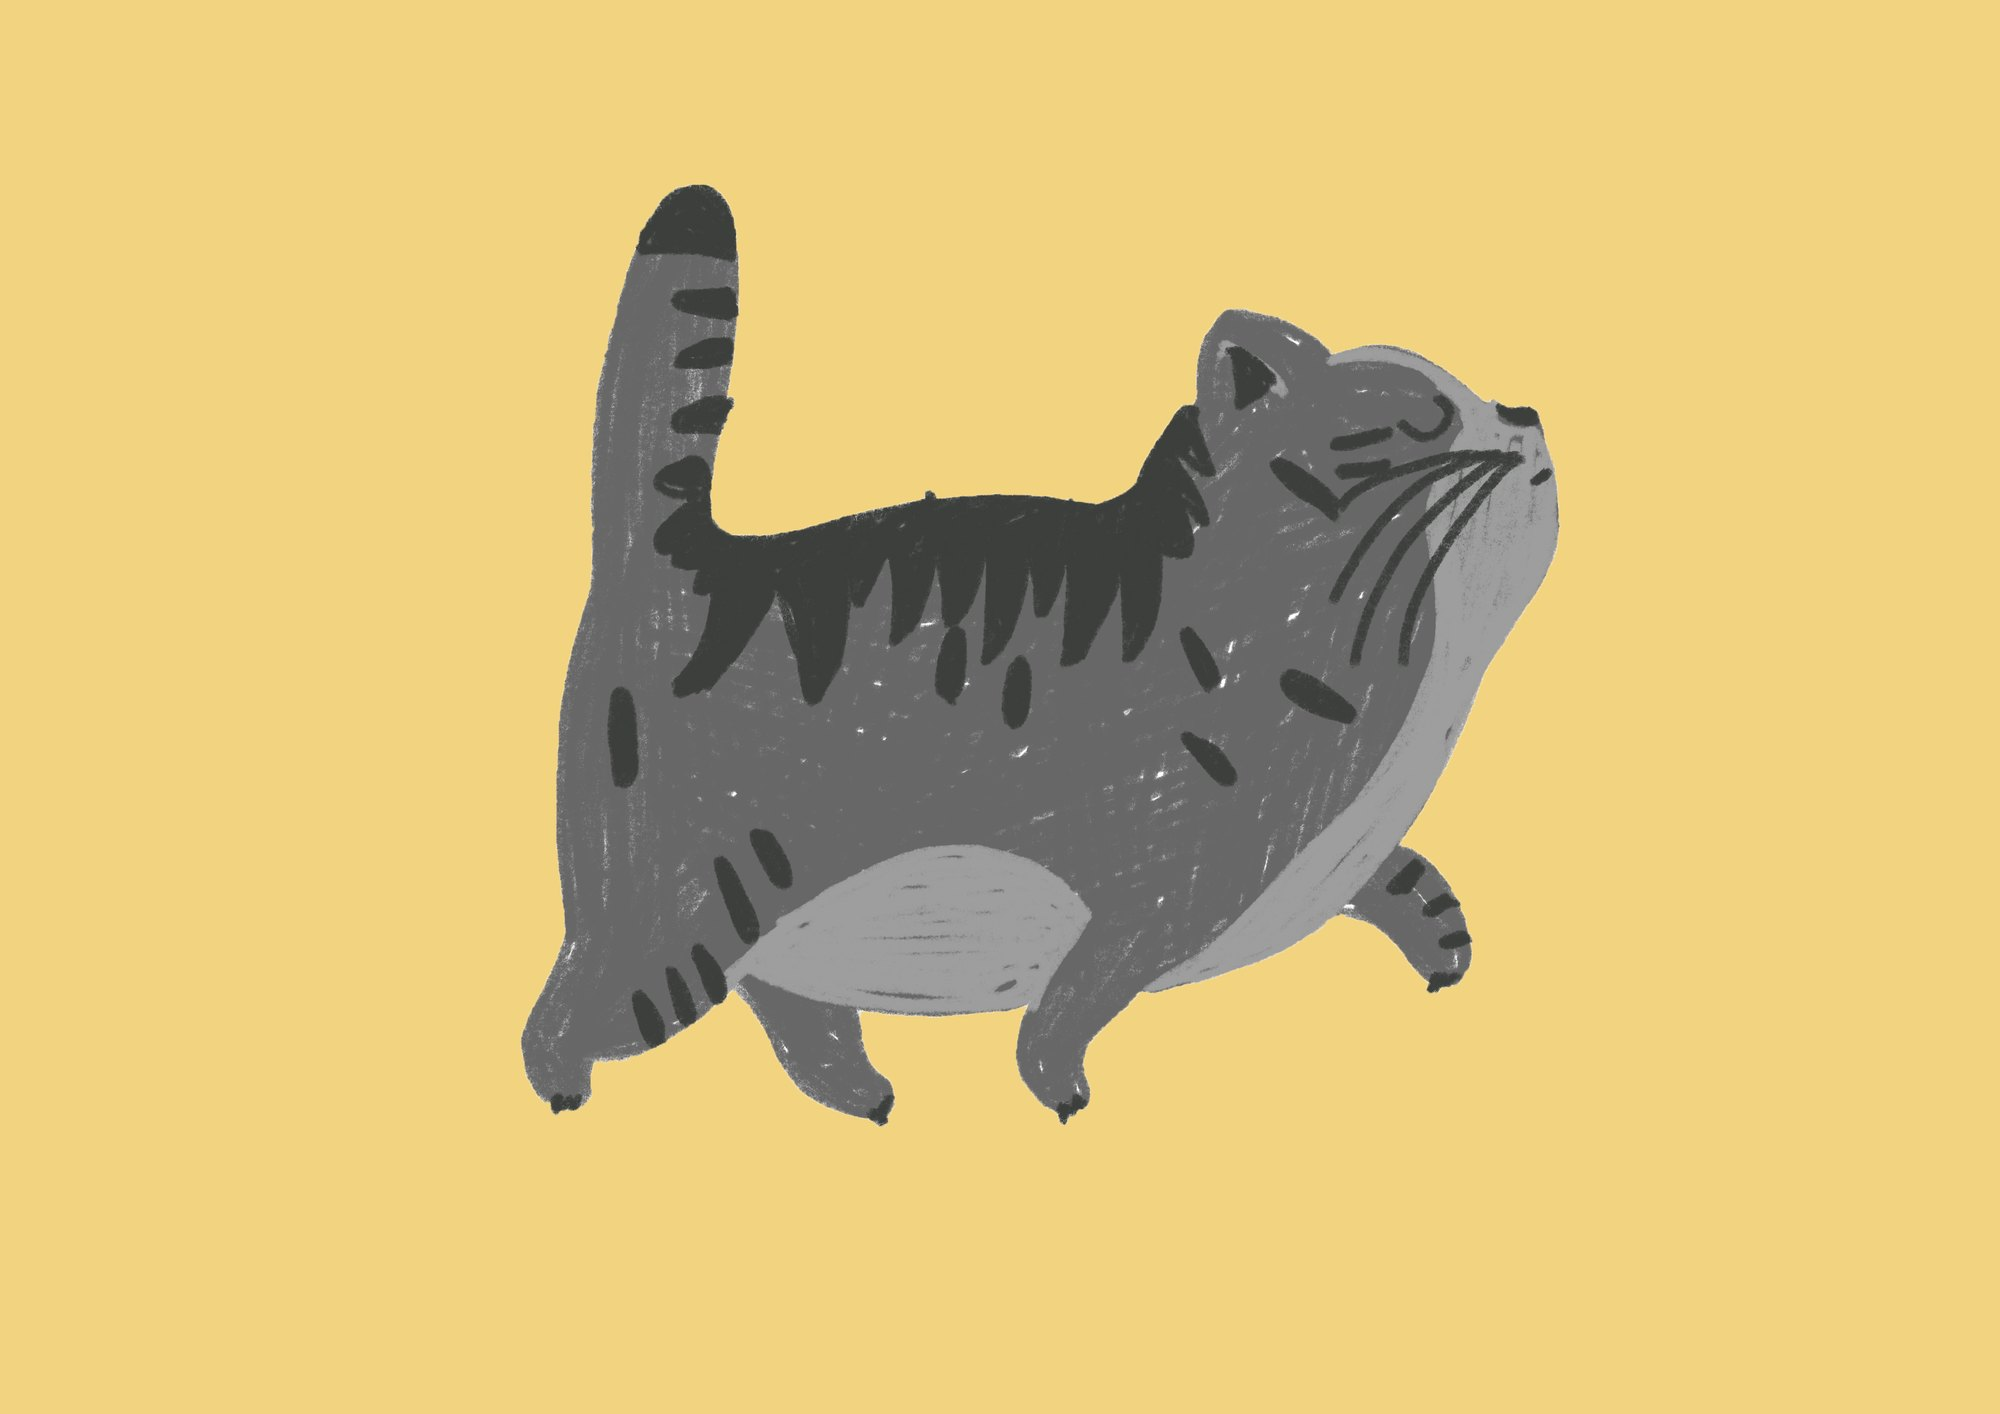
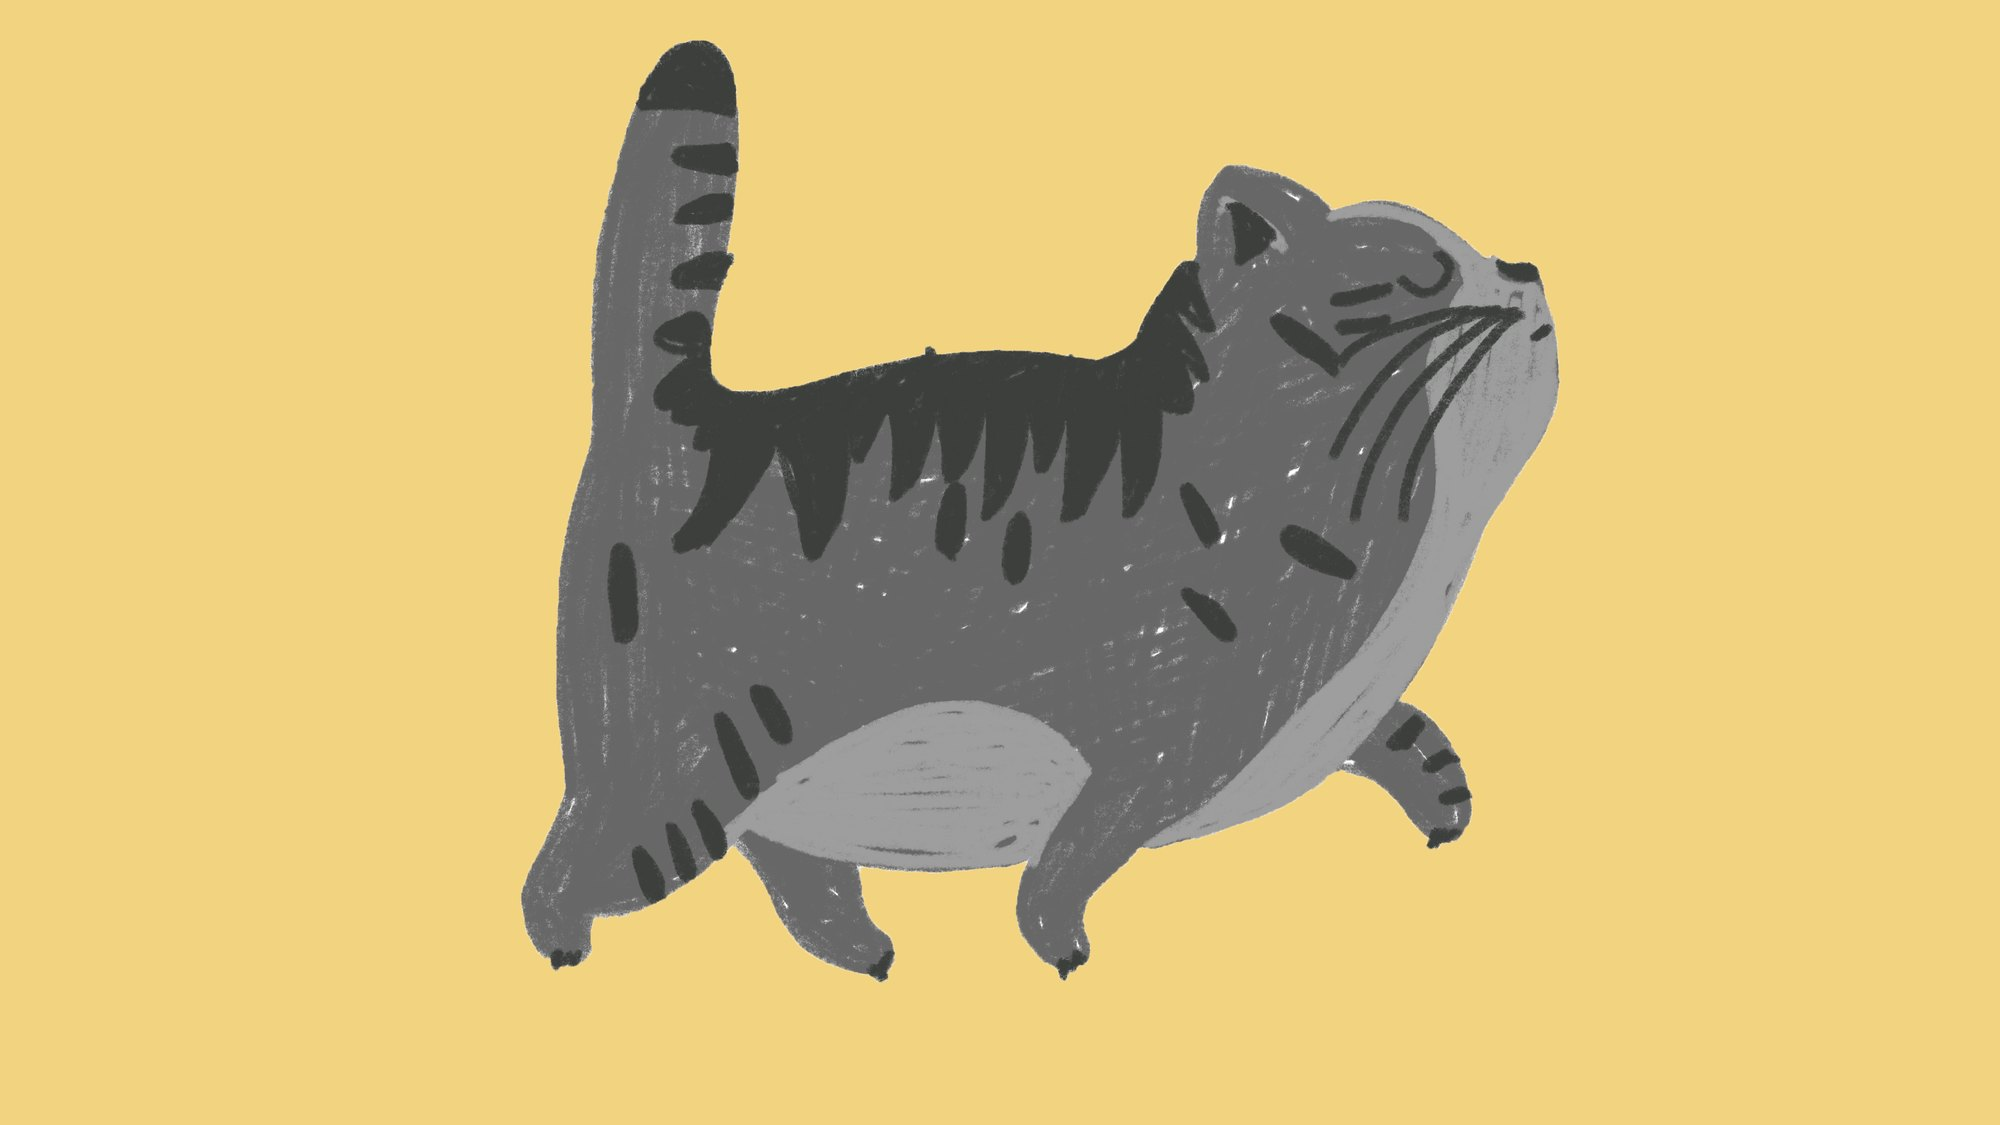
Home: intro del cassetto, meta più grandi, gatto 16:9, Satisfying senza penultima foto, ritocchi responsive
Claude-Session: https://claude.ai/code/session_01F8HjMpXppBL3SyZLRo98FG

diff --git a/index.html b/index.html
@@ -9,7 +9,7 @@
   <meta property="og:image" content="https://sarabellini99.github.io/SaraBellini/images/cover/eco.jpg">
   <meta property="og:type" content="website">
   <title>Sara Bellini</title>
-  <link rel="stylesheet" href="style.css?v=145">
+  <link rel="stylesheet" href="style.css?v=146">
   <link rel="icon" type="image/png" href="favicon.png">
 </head>
 
@@ -152,6 +152,7 @@
       <h1 id="drawer-title">Nel cassetto</h1>
       <span class="drawer-note">Side projects</span>
     </div>
+    <p class="drawer-intro">Qui tengo i progetti più vecchi, le sperimentazioni e i lavori più piccoli. <span class="dim-text">Non stanno sulla scrivania, ma ci sono affezionata.</span></p>
     <ol class="drawer-list">
       <li class="drawer-item">
         <button type="button" class="drawer-open" aria-haspopup="dialog" aria-controls="drawer-panel">
@@ -162,7 +163,7 @@
         </button>
         <div class="drawer-data" hidden>
           <p class="drawer-text">Un video ironico sul paradosso del gatto imburrato: se una fetta di pane cade sempre dal lato imburrato e un gatto cade sempre in piedi, legandoli insieme nessuno dei due toccherà mai terra. Realizzato interamente in 3D con Blender.</p>
-          <div class="drawer-images"><div class="drawer-img drawer-film" data-ratio="16/9" data-poster="images/Gatto/poster_video.jpg"><video src="images/Gatto/Video_the hungry cat.mp4" poster="images/Gatto/poster_video.jpg" playsinline preload="none"></video><button type="button" class="play-button drawer-play">PLAY</button></div><div class="drawer-img" data-ratio="16/9"><video src="images/Gatto/Gatto.mp4" muted loop playsinline preload="metadata"></video></div><div class="drawer-img" data-ratio="16/9"><video src="images/Gatto/TOASTED.mp4" muted loop playsinline preload="metadata"></video></div><div class="drawer-img" data-ratio="16/9"><video src="images/Gatto/VOLAA.mp4" muted loop playsinline preload="metadata"></video></div><div class="drawer-img" data-ratio="16/9"><video src="images/Gatto/volo nel cielo.mp4" muted loop playsinline preload="metadata"></video></div><div class="drawer-img" data-ratio="3508/2480"><img src="images/Gatto/illustrazione.jpg" alt="Illustrazione del gatto di The Hungry Cat" loading="lazy"></div></div>
+          <div class="drawer-images"><div class="drawer-img drawer-film" data-ratio="16/9" data-poster="images/Gatto/poster_video.jpg"><video src="images/Gatto/Video_the hungry cat.mp4" poster="images/Gatto/poster_video.jpg" playsinline preload="none"></video><button type="button" class="play-button drawer-play">PLAY</button></div><div class="drawer-img" data-ratio="16/9"><video src="images/Gatto/Gatto.mp4" muted loop playsinline preload="metadata"></video></div><div class="drawer-img" data-ratio="16/9"><video src="images/Gatto/TOASTED.mp4" muted loop playsinline preload="metadata"></video></div><div class="drawer-img" data-ratio="16/9"><video src="images/Gatto/VOLAA.mp4" muted loop playsinline preload="metadata"></video></div><div class="drawer-img" data-ratio="16/9"><video src="images/Gatto/volo nel cielo.mp4" muted loop playsinline preload="metadata"></video></div><div class="drawer-img" data-ratio="16/9"><img src="images/Gatto/illustrazione.jpg?v=2" alt="Illustrazione del gatto di The Hungry Cat" loading="lazy"></div></div>
         </div>
       </li>
       <li class="drawer-item">
@@ -186,7 +187,7 @@
         </button>
         <div class="drawer-data" hidden>
           <p class="drawer-text">Una sperimentazione in 3D tra materiali trasparenti, luce e suono. Sfere di vetro e anelli iridescenti si incastrano, rimbalzano e cadono, mentre la luce li attraversa e cambia colore a ogni passaggio. Ogni contatto ha il suo suono, pensato per accompagnare il movimento e renderlo quasi tattile. Ideato, progettato e realizzato interamente da me con Blender.</p>
-          <div class="drawer-images"><div class="drawer-img drawer-film" data-ratio="16/9" data-poster="images/Satisfying/poster.jpg"><video src="images/Satisfying/satisfying.mp4" poster="images/Satisfying/poster.jpg" playsinline preload="none"></video><button type="button" class="play-button drawer-play">PLAY</button></div><div class="drawer-img" data-ratio="16/9"><img src="images/Satisfying/still_4.jpg" alt="Fotogramma di Satisfying" loading="lazy"></div><div class="drawer-img" data-ratio="16/9"><img src="images/Satisfying/still_3.jpg" alt="Fotogramma di Satisfying" loading="lazy"></div><div class="drawer-img" data-ratio="16/9"><img src="images/Satisfying/still_2.jpg" alt="Fotogramma di Satisfying" loading="lazy"></div><div class="drawer-img" data-ratio="16/9"><img src="images/Satisfying/still_1.jpg" alt="Fotogramma di Satisfying" loading="lazy"></div></div>
+          <div class="drawer-images"><div class="drawer-img drawer-film" data-ratio="16/9" data-poster="images/Satisfying/poster.jpg"><video src="images/Satisfying/satisfying.mp4" poster="images/Satisfying/poster.jpg" playsinline preload="none"></video><button type="button" class="play-button drawer-play">PLAY</button></div><div class="drawer-img" data-ratio="16/9"><img src="images/Satisfying/still_4.jpg" alt="Fotogramma di Satisfying" loading="lazy"></div><div class="drawer-img" data-ratio="16/9"><img src="images/Satisfying/still_3.jpg" alt="Fotogramma di Satisfying" loading="lazy"></div><div class="drawer-img" data-ratio="16/9"><img src="images/Satisfying/still_1.jpg" alt="Fotogramma di Satisfying" loading="lazy"></div></div>
         </div>
       </li>
     </ol>

diff --git a/style.css b/style.css
@@ -6819,3 +6819,33 @@ body.project-page .plurale-pdf { font-size: 17px !important; line-height: 1.1 !i
   .intro h2.hero-desk, .intro h2.hero-desk .dim-text { font-family: 'TESTI', sans-serif !important; }
   .intro h2.hero-desk { top: -30px; }
 }
+
+/* =========================
+   CHECK DEFINITIVI HOME
+   ========================= */
+/* cassetto: testo introduttivo */
+.drawer-intro { max-width: 560px; margin: 0 0 40px; font-family: 'TESTI'; font-size: 17px; line-height: 1.15; letter-spacing: -0.01em; color: #000; }
+.drawer-intro .dim-text { color: #9C9C9A; }
+@media (min-width: 992px) { .drawer-intro { font-size: 18px; } }
+@media (min-width: 1900px) { .drawer-intro { font-size: 20px; max-width: 640px; } }
+
+/* cassetto: Ambito e Anno più leggibili */
+.drawer-panel-meta { font-size: 14px; }
+@media (min-width: 1900px) { .drawer-panel-meta { font-size: 15px; } }
+
+/* navbar: stessa altezza anche sotto i 1200 px */
+@media (max-width: 1199px) {
+  .navbar { padding-top: 20px !important; padding-bottom: 20px !important; }
+}
+
+/* tablet: Non ha sempre questa forma resta di lato */
+@media (min-width: 768px) and (max-width: 991px) {
+  .hero-bottom { justify-content: flex-end; }
+  .intro h2.hero-desk { max-width: 420px !important; margin-left: auto; }
+}
+
+/* telefono e tablet: il progetto aperto nel cassetto sta al centro dello schermo */
+@media (max-width: 991px) {
+  .drawer-panel > .drawer-stage { margin-top: auto; }
+  .drawer-panel > .drawer-panel-info { margin-bottom: auto; }
+}

diff --git a/progetti/The-hungry-cat.html b/progetti/The-hungry-cat.html
@@ -5,7 +5,7 @@
   <meta name="viewport" content="width=device-width, initial-scale=1.0">
   <title>Sara Bellini_The Hungry Cat</title>
 <!-- CSS -->
-<link rel="stylesheet" href="../style.css?v=145">
+<link rel="stylesheet" href="../style.css?v=146">
 
 </head>
 

diff --git a/progetti/Amorfosi.html b/progetti/Amorfosi.html
@@ -5,7 +5,7 @@
   <meta name="viewport" content="width=device-width, initial-scale=1.0">
   <title>Sara Bellini_Amorfosi</title>
 <!-- CSS -->
-<link rel="stylesheet" href="../style.css?v=145">
+<link rel="stylesheet" href="../style.css?v=146">
 
 </head>
 

diff --git a/progetti/Intrecci.html b/progetti/Intrecci.html
@@ -5,7 +5,7 @@
   <meta name="viewport" content="width=device-width, initial-scale=1.0">
   <title>Sara Bellini_Intrecci</title>
 <!-- CSS -->
-<link rel="stylesheet" href="../style.css?v=145">
+<link rel="stylesheet" href="../style.css?v=146">
 
 </head>
 

diff --git a/progetti/Realista.html b/progetti/Realista.html
@@ -5,7 +5,7 @@
   <meta name="viewport" content="width=device-width, initial-scale=1.0">
   <title>Sara Bellini_Realista</title>
 <!-- CSS -->
-<link rel="stylesheet" href="../style.css?v=145">
+<link rel="stylesheet" href="../style.css?v=146">
 
 </head>
 

diff --git a/progetti/Plastiz.html b/progetti/Plastiz.html
@@ -5,7 +5,7 @@
   <meta name="viewport" content="width=device-width, initial-scale=1.0">
   <title>Sara Bellini_Plastiz</title>
 <!-- CSS -->
-<link rel="stylesheet" href="../style.css?v=145">
+<link rel="stylesheet" href="../style.css?v=146">
 
 </head>
 

diff --git a/progetti/Plurale.html b/progetti/Plurale.html
@@ -5,7 +5,7 @@
   <meta name="viewport" content="width=device-width, initial-scale=1.0">
   <title>Sara Bellini_Plurale</title>
 <!-- CSS -->
-<link rel="stylesheet" href="../style.css?v=145">
+<link rel="stylesheet" href="../style.css?v=146">
 
 </head>
 

diff --git a/progetti/Urania.html b/progetti/Urania.html
@@ -5,7 +5,7 @@
   <meta name="viewport" content="width=device-width, initial-scale=1.0">
   <title>Sara Bellini_Urania</title>
 <!-- CSS -->
-<link rel="stylesheet" href="../style.css?v=145">
+<link rel="stylesheet" href="../style.css?v=146">
 
 </head>
 

diff --git a/progetti/Eco.html b/progetti/Eco.html
@@ -5,7 +5,7 @@
   <meta name="viewport" content="width=device-width, initial-scale=1.0">
   <title>Sara Bellini_Eco</title>
 <!-- CSS -->
-<link rel="stylesheet" href="../style.css?v=145">
+<link rel="stylesheet" href="../style.css?v=146">
 
 </head>
 
